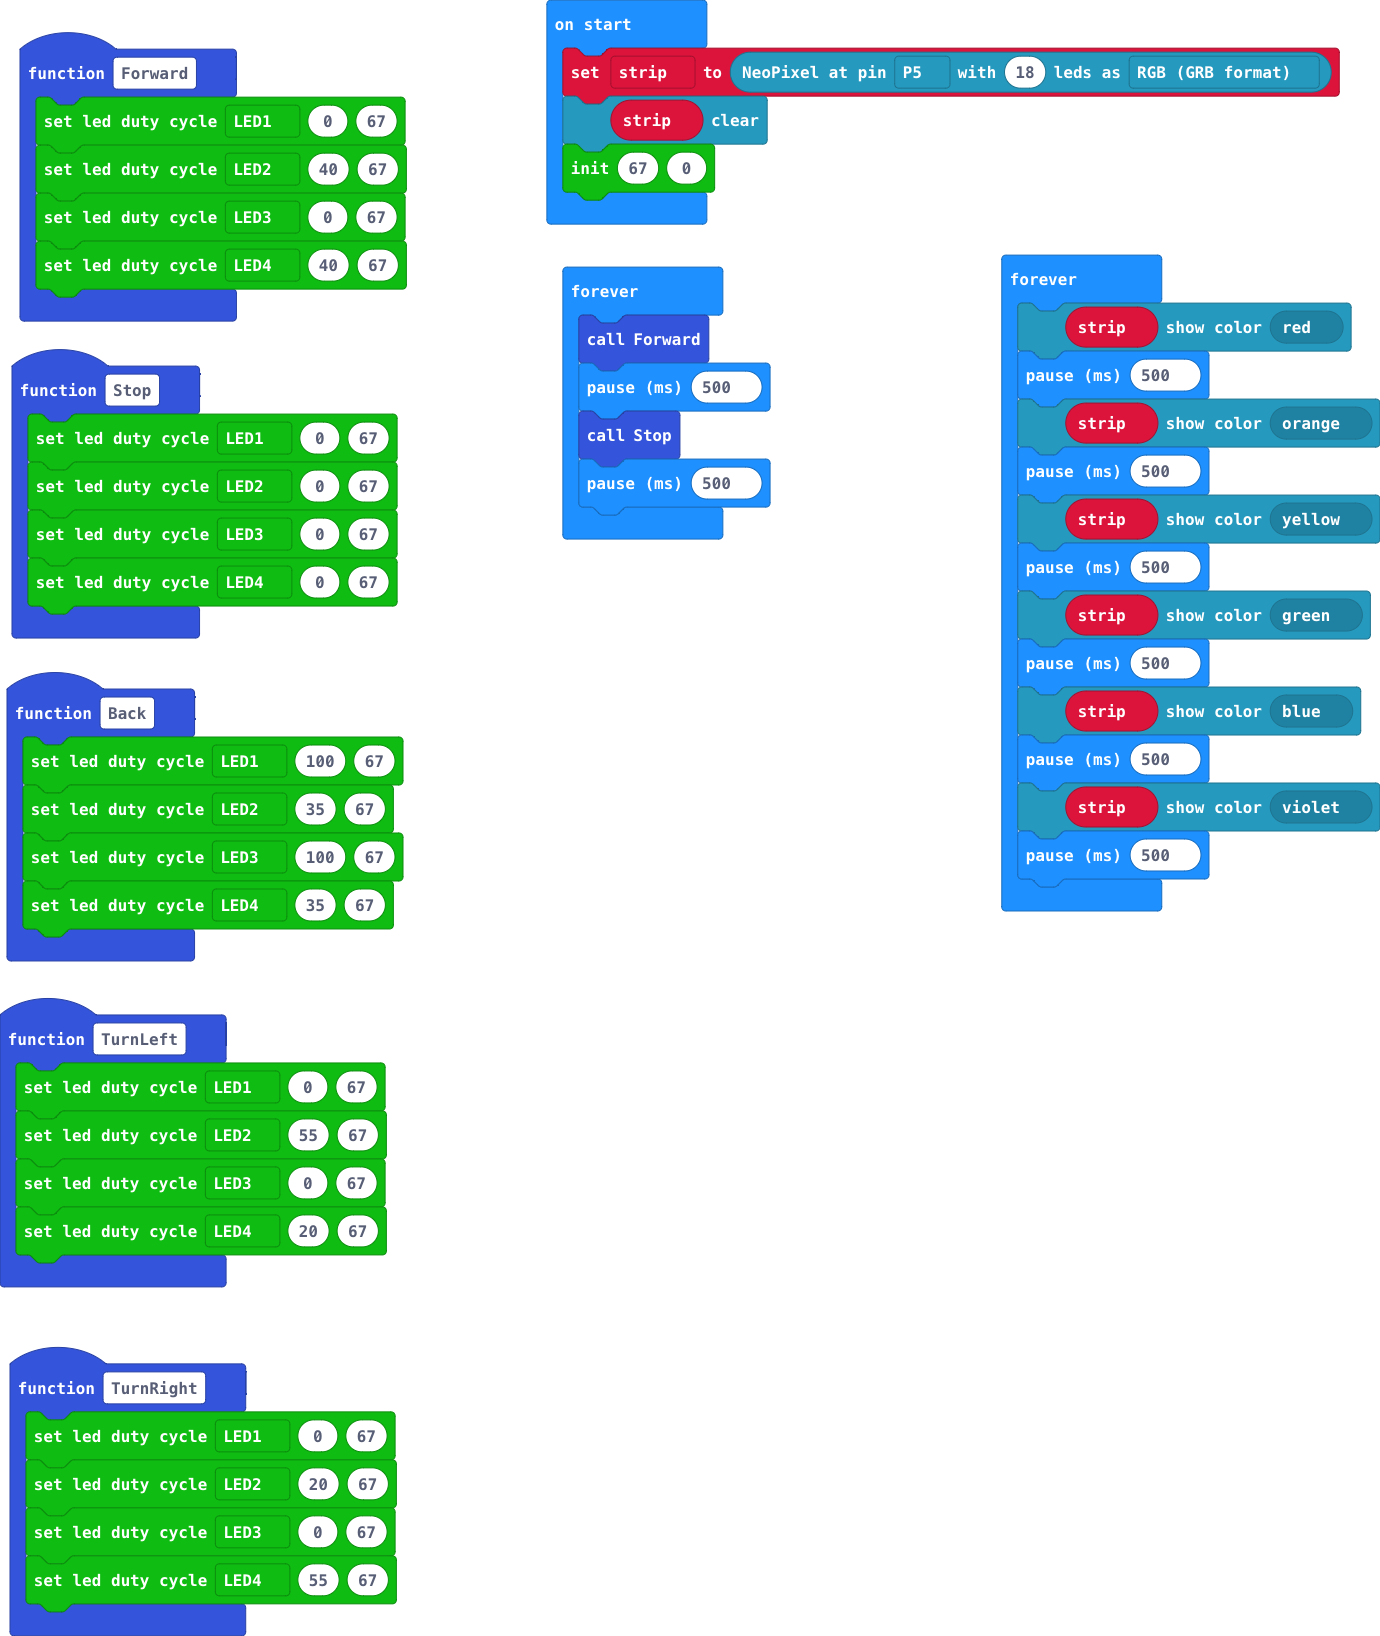
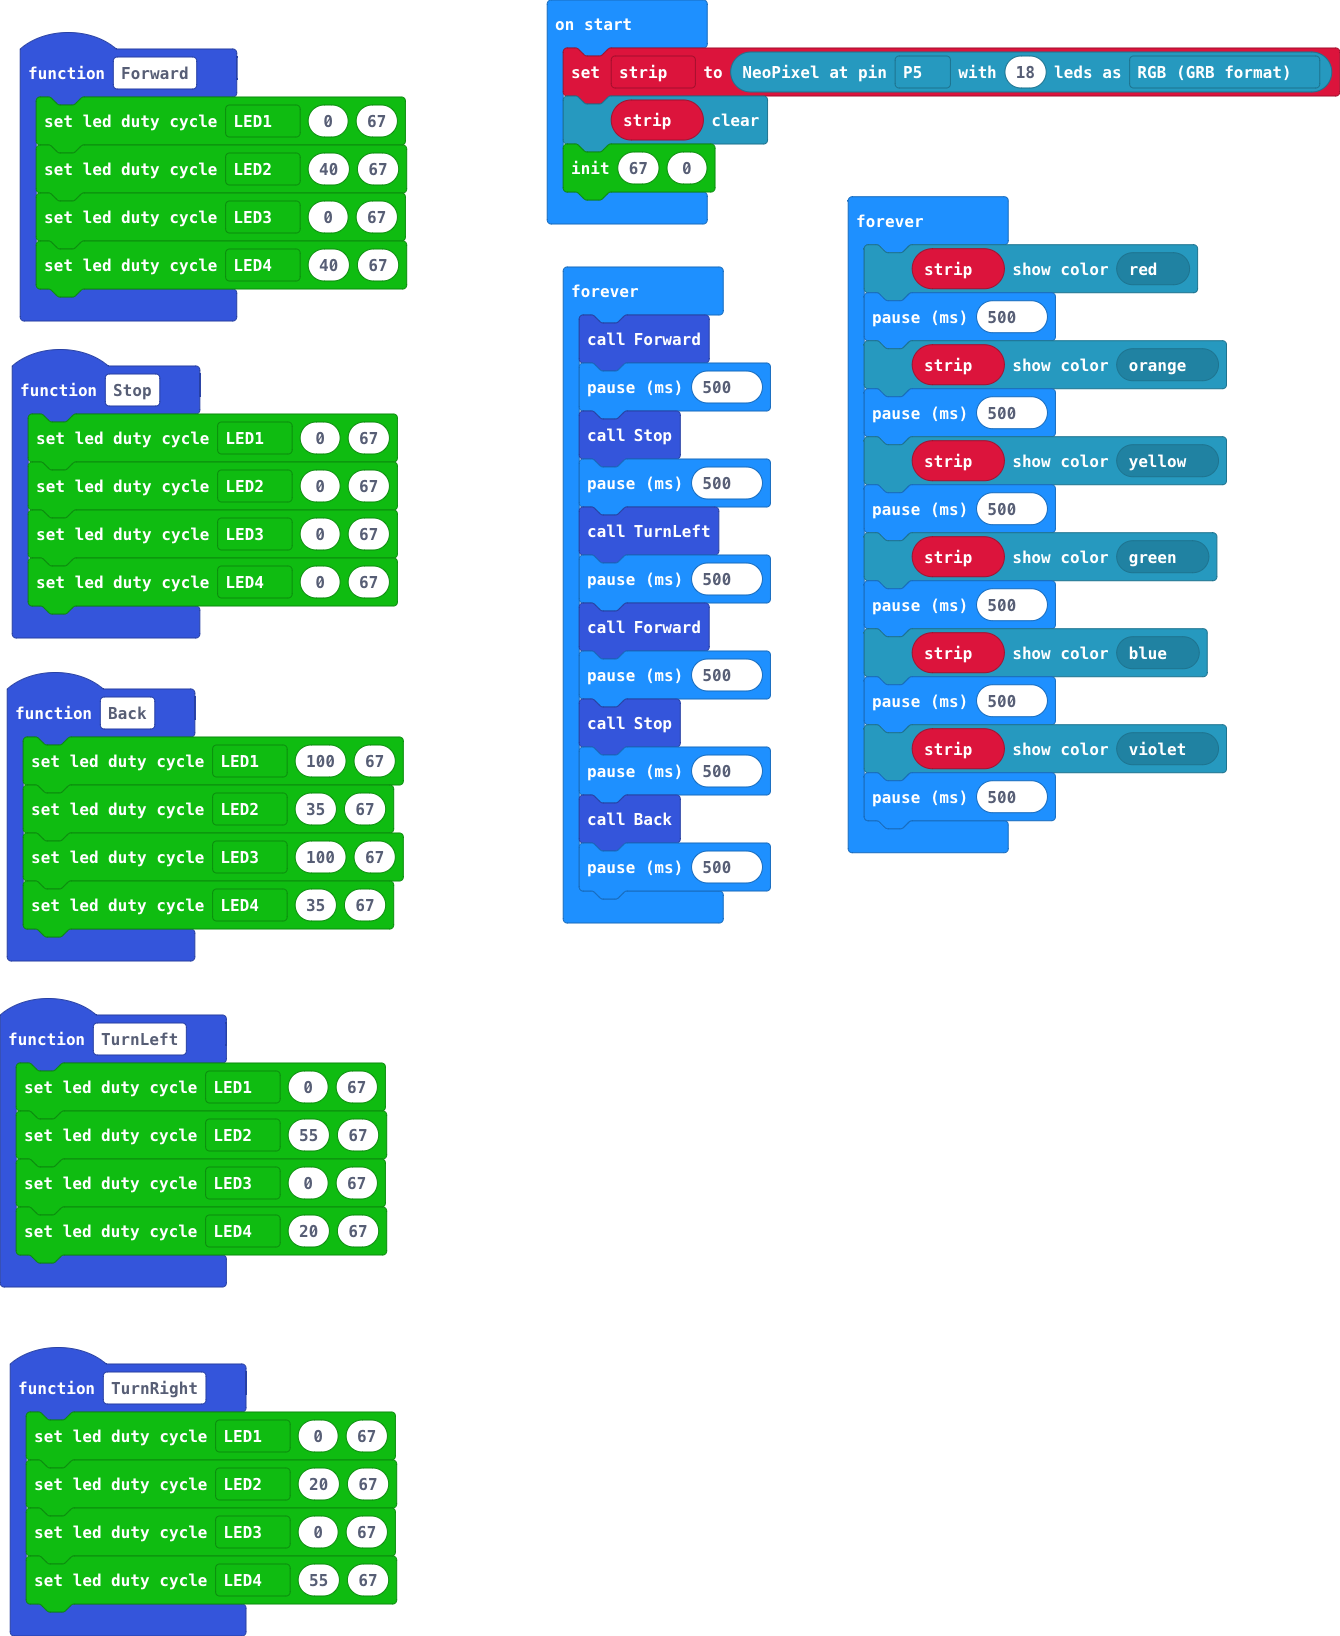
Update main.blocks, main.ts, main.py

diff --git a/main.ts b/main.ts
@@ -37,12 +37,6 @@ let strip = neopixel.create(DigitalPin.P5, 18, NeoPixelMode.RGB)
 strip.clear()
 PCA9685.init(67, 0)
 basic.forever(function on_forever() {
-    Forward()
-    basic.pause(500)
-    Stop()
-    basic.pause(500)
-})
-basic.forever(function on_forever2() {
     strip.showColor(neopixel.colors(NeoPixelColors.Red))
     basic.pause(500)
     strip.showColor(neopixel.colors(NeoPixelColors.Orange))
@@ -54,5 +48,19 @@ basic.forever(function on_forever2() {
     strip.showColor(neopixel.colors(NeoPixelColors.Blue))
     basic.pause(500)
     strip.showColor(neopixel.colors(NeoPixelColors.Violet))
+    basic.pause(500)
+})
+basic.forever(function on_forever2() {
+    Forward()
+    basic.pause(500)
+    Stop()
+    basic.pause(500)
+    TurnLeft()
+    basic.pause(500)
+    Forward()
+    basic.pause(500)
+    Stop()
+    basic.pause(500)
+    Back()
     basic.pause(500)
 })

diff --git a/main.py b/main.py
@@ -28,13 +28,6 @@ strip.clear()
 PCA9685.init(67, 0)
 
 def on_forever():
-    Forward()
-    basic.pause(500)
-    Stop()
-    basic.pause(500)
-basic.forever(on_forever)
-
-def on_forever2():
     strip.show_color(neopixel.colors(NeoPixelColors.RED))
     basic.pause(500)
     strip.show_color(neopixel.colors(NeoPixelColors.ORANGE))
@@ -46,5 +39,20 @@ def on_forever2():
     strip.show_color(neopixel.colors(NeoPixelColors.BLUE))
     basic.pause(500)
     strip.show_color(neopixel.colors(NeoPixelColors.VIOLET))
+    basic.pause(500)
+basic.forever(on_forever)
+
+def on_forever2():
+    Forward()
+    basic.pause(500)
+    Stop()
+    basic.pause(500)
+    TurnLeft()
+    basic.pause(500)
+    Forward()
+    basic.pause(500)
+    Stop()
+    basic.pause(500)
+    Back()
     basic.pause(500)
 basic.forever(on_forever2)
